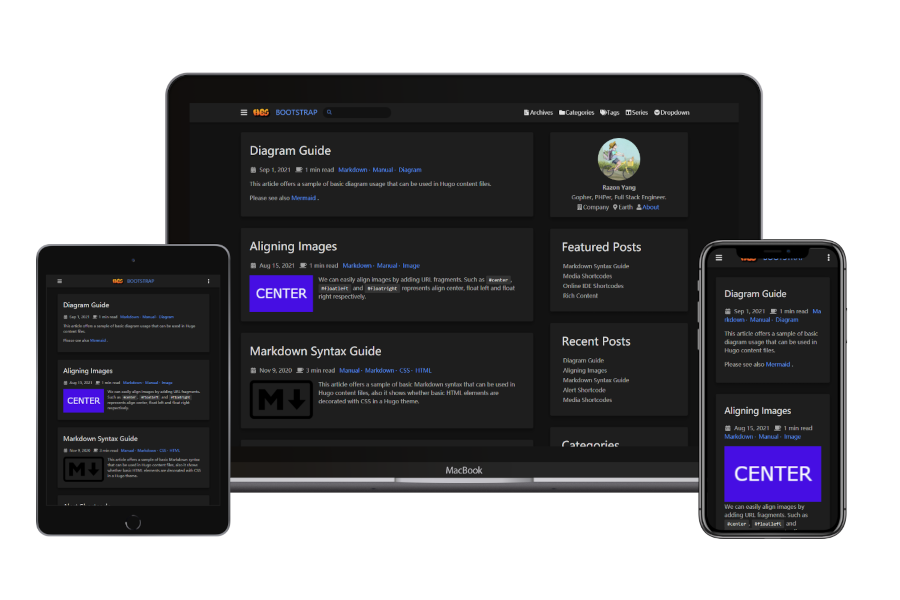
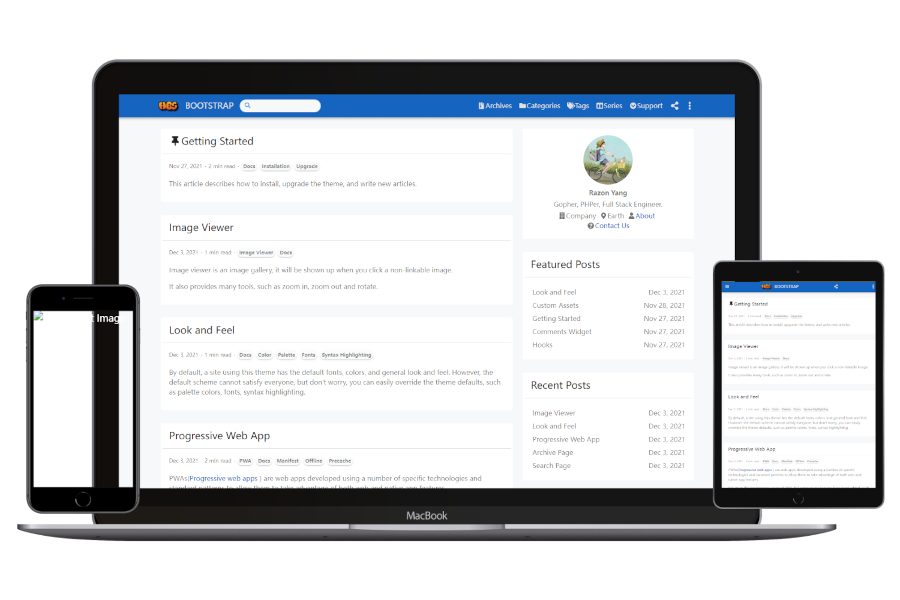
chore: update screenshots

diff --git a/README.md b/README.md
@@ -6,10 +6,6 @@ A fast, responsive and feature-rich blog theme for Hugo.
 
 ![Screenshot](https://raw.githubusercontent.com/razonyang/hugo-theme-bootstrap/master/images/screenshot.png)
 
-**Light Mode**
-
-![Screenshot in Light Mode](https://raw.githubusercontent.com/razonyang/hugo-theme-bootstrap/master/images/screenshot-light.png)
-
 ## Demo Sites
 
 - https://hbs.razonyang.com/ - Deploy on Netlify.
